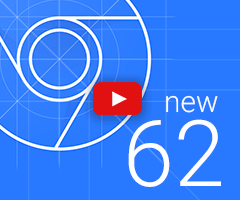
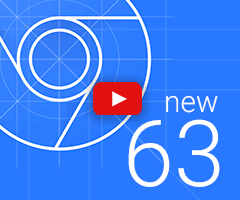
[devtools] update whats new for m63
TBR=pfeldman@chromium.org

Bug: 773843
Commit-Queue: Will Chen <chenwilliam@chromium.org>
Cr-Commit-Position: refs/heads/master@{#508186}

Changed region(s): [[0.7292, 0.63, 0.9333, 0.96], [0.7292, 0.63, 0.7875, 0.72]]

diff --git a/.upstream-WebKit/Source/devtools/front_end/help/ReleaseNoteText.js b/.upstream-WebKit/Source/devtools/front_end/help/ReleaseNoteText.js
@@ -12,6 +12,39 @@ var commandMenuShortcut = Host.isMac() ? 'Command + Shift + P' : 'Control + Shif
 /** @type {!Array<!Help.ReleaseNote>} */
 Help.releaseNoteText = [
   {
+    version: 6,
+    header: 'Highlights from the Chrome 63 update',
+    highlights: [
+      {
+        title: 'Multi-client remote debugging',
+        subtitle: 'Use DevTools while debugging your app from an IDE or testing framework.',
+        link: 'https://developers.google.com/web/updates/2017/10/devtools-release-notes#multi-client',
+      },
+      {
+        title: 'Workspaces 2.0',
+        subtitle: 'Save changes made in DevTools to disk, now with more helpful UI and better auto-mapping.',
+        link: 'https://developers.google.com/web/updates/2017/10/devtools-release-notes#workspaces',
+      },
+      {
+        title: 'Four new audits',
+        subtitle:
+            'Including "Appropriate aspect ratios for images", "Avoid JS libraries with known vulnerabilities", and more.',
+        link: 'https://developers.google.com/web/updates/2017/10/devtools-release-notes#audits',
+      },
+      {
+        title: 'Custom push notifications',
+        subtitle: 'Simulate push notifications with custom data.',
+        link: 'https://developers.google.com/web/updates/2017/10/devtools-release-notes#push',
+      },
+      {
+        title: 'Custom background sync events',
+        subtitle: 'Trigger background sync events with custom tags.',
+        link: 'https://developers.google.com/web/updates/2017/10/devtools-release-notes#sync',
+      },
+    ],
+    link: 'https://developers.google.com/web/updates/2017/10/devtools-release-notes',
+  },
+  {
     version: 5,
     header: 'Highlights from the Chrome 62 update',
     highlights: [
